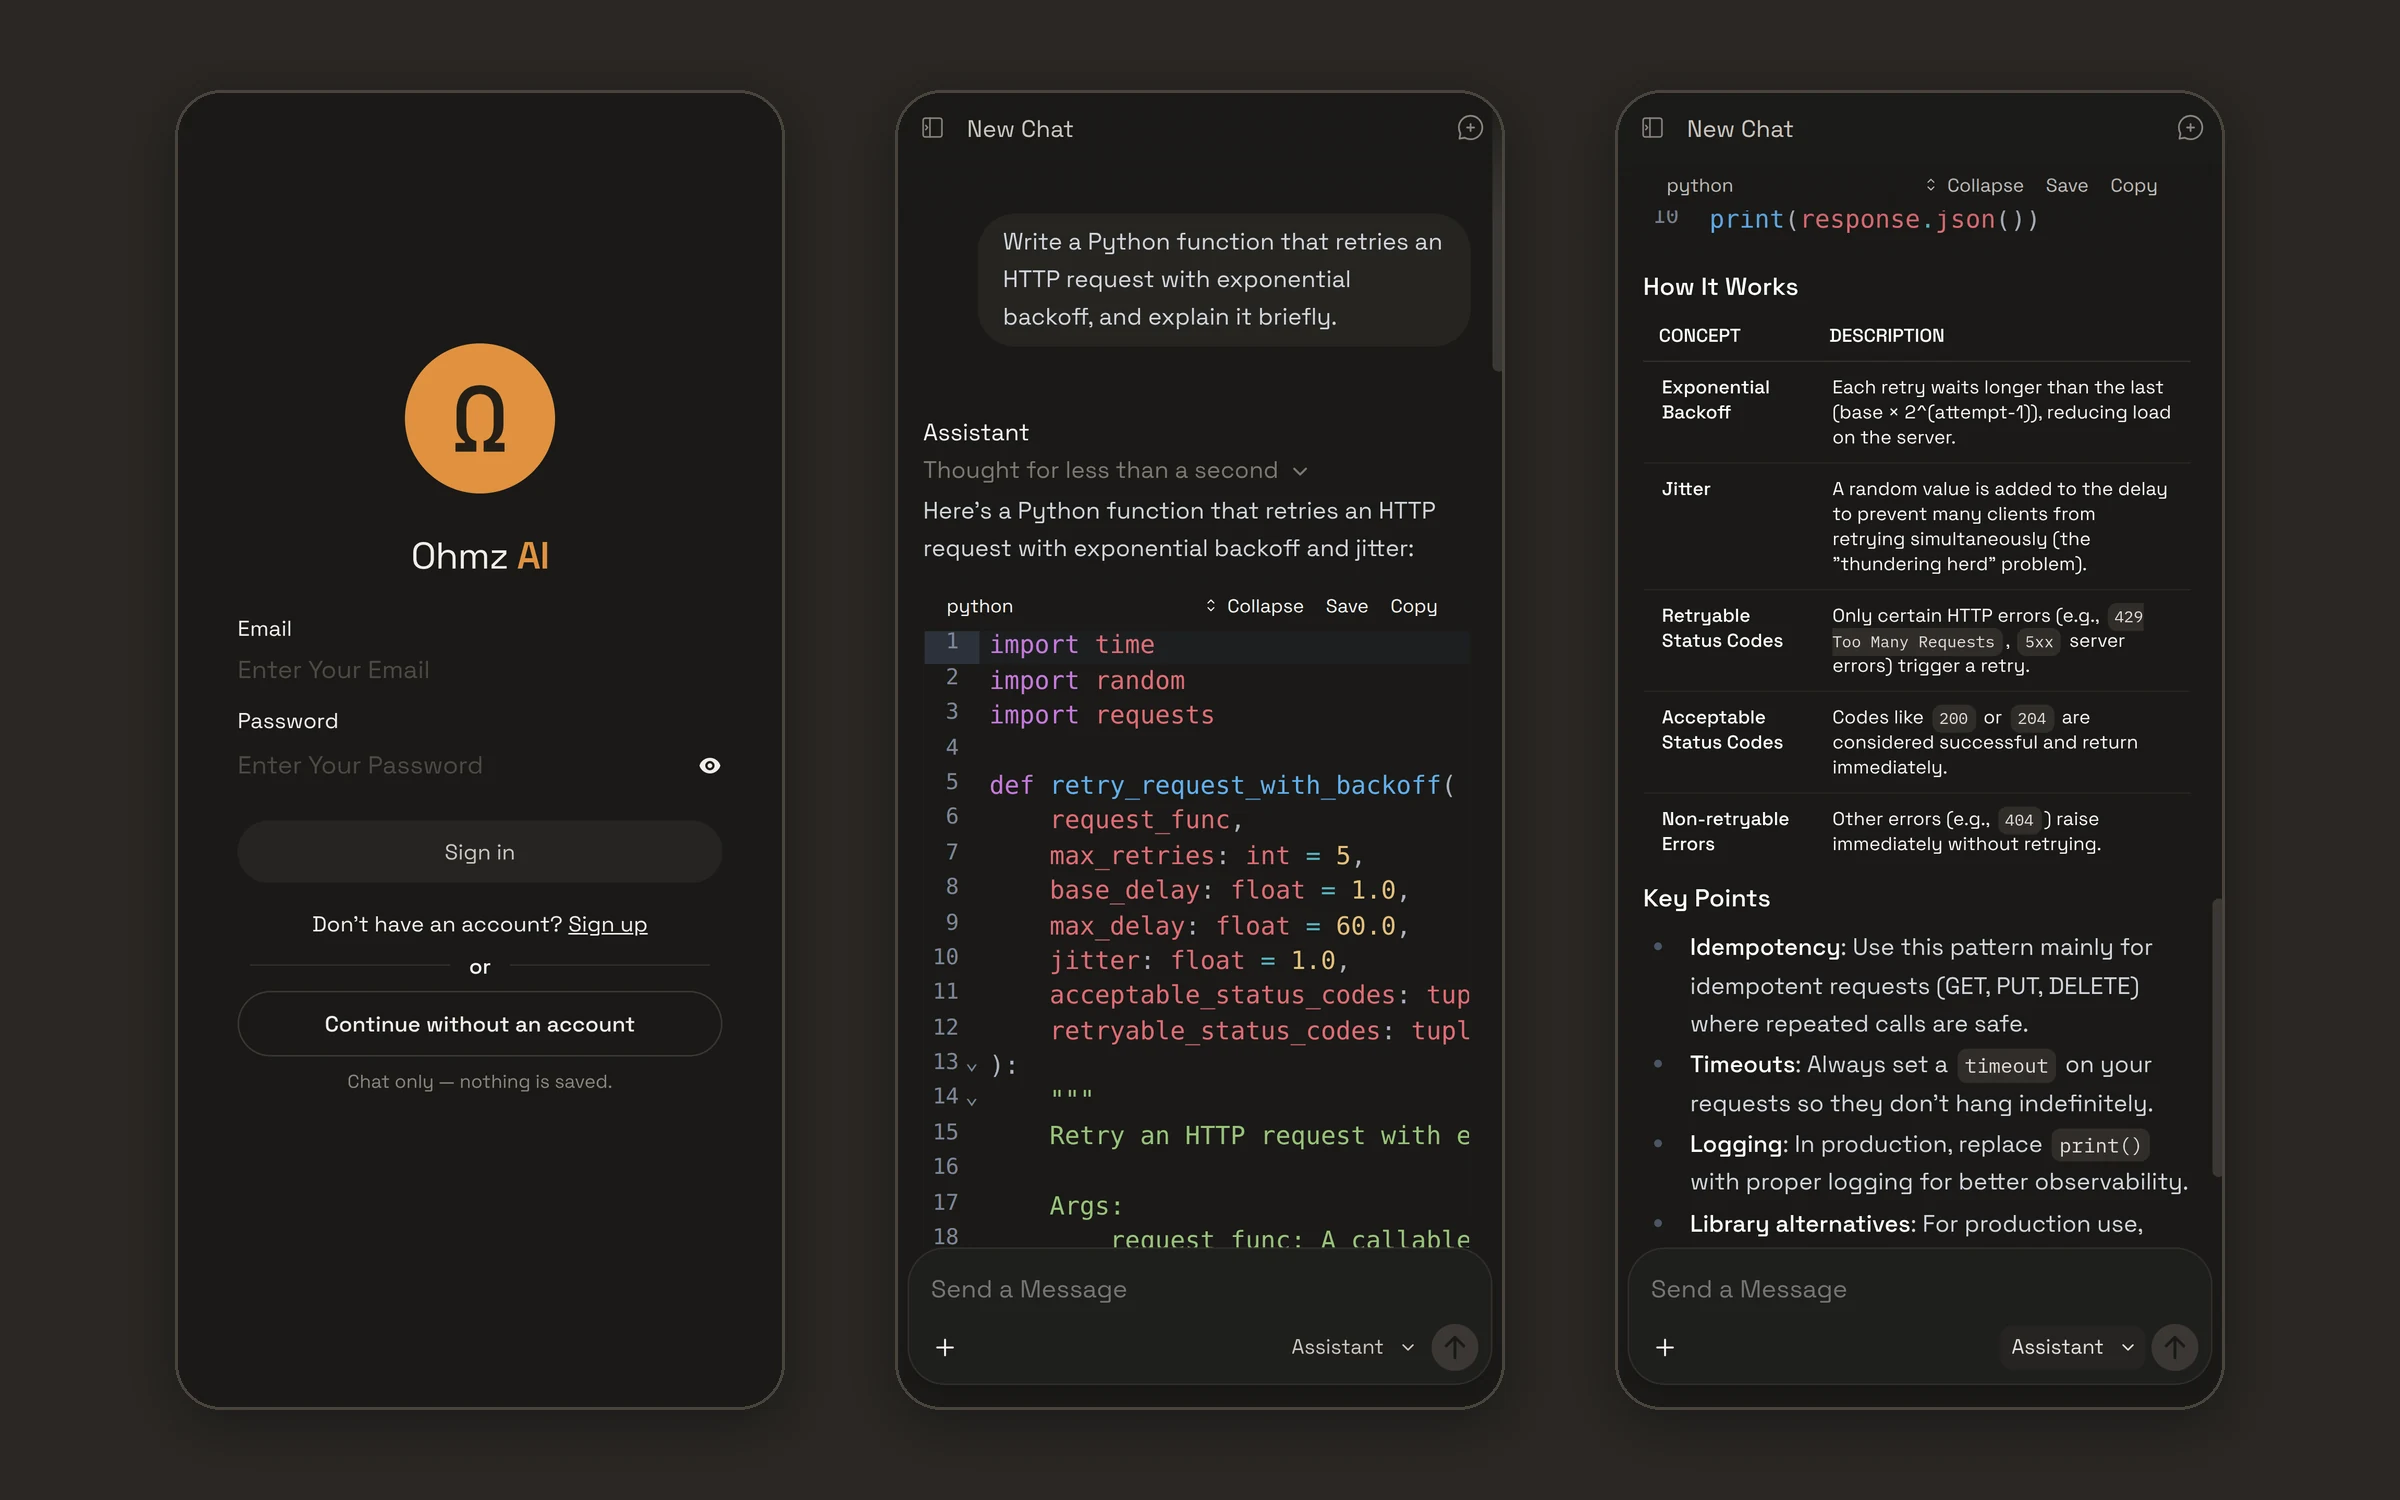
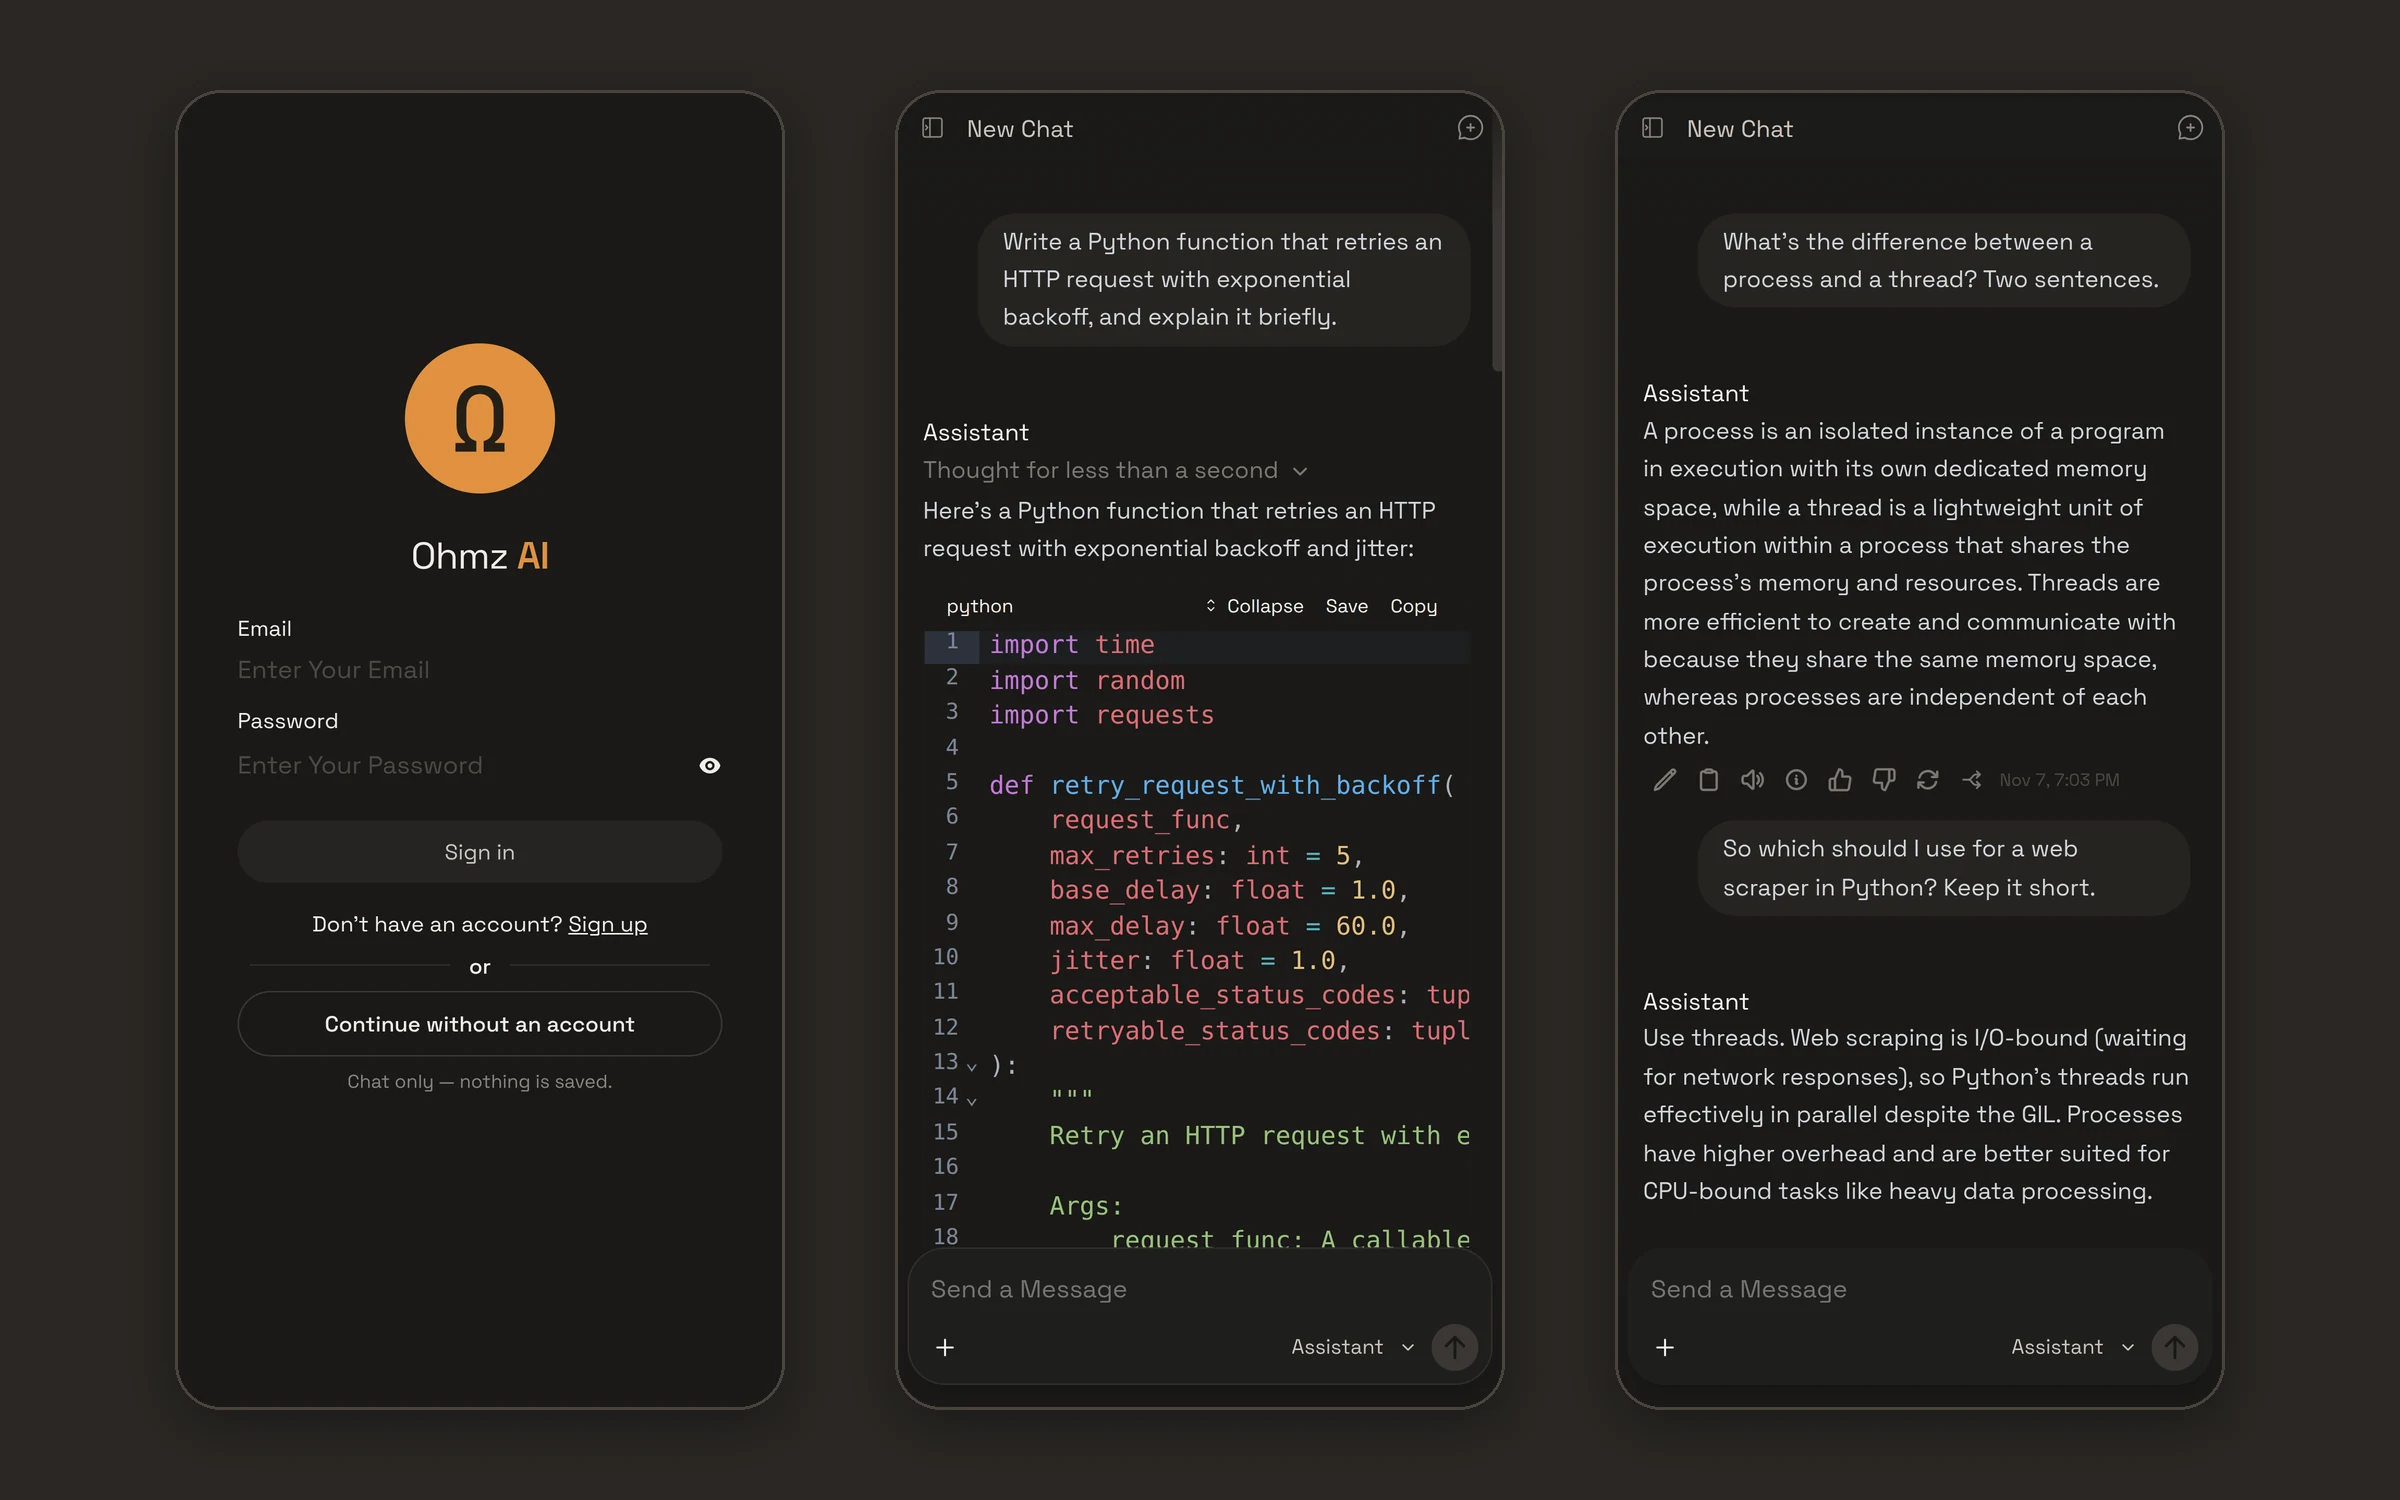
docs: show a follow-up conversation in the README phone slide
Captured from the demo site.

Claude-Session: https://claude.ai/code/session_01TwndVz7DJVcLcZSfrMgjrf

Changed region(s): [[0.6875, 0.1227, 0.9375, 0.828]]

diff --git a/README.md b/README.md
@@ -6,7 +6,7 @@ watches things on a schedule and texts you when they happen, and is measured by
 a repeatable eval suite instead of vibes.
 
 <p align="center">
-  <img src="docs/assets/mobile.webp" alt="Ohmz AI on a phone: the sign-in screen with guest access, a coding answer with a highlighted Python block, and the explanation table that follows" width="100%">
+  <img src="docs/assets/mobile.webp" alt="Ohmz AI on a phone: the sign-in screen with guest access, a coding answer with a highlighted Python block, and a conversation with a follow-up question and its answer" width="100%">
 </p>
 <p align="center">
   <em>The Ohmz AI skin on a phone, from the public guest instance (see <a href="#public-instance">Public instance</a>).</em>
